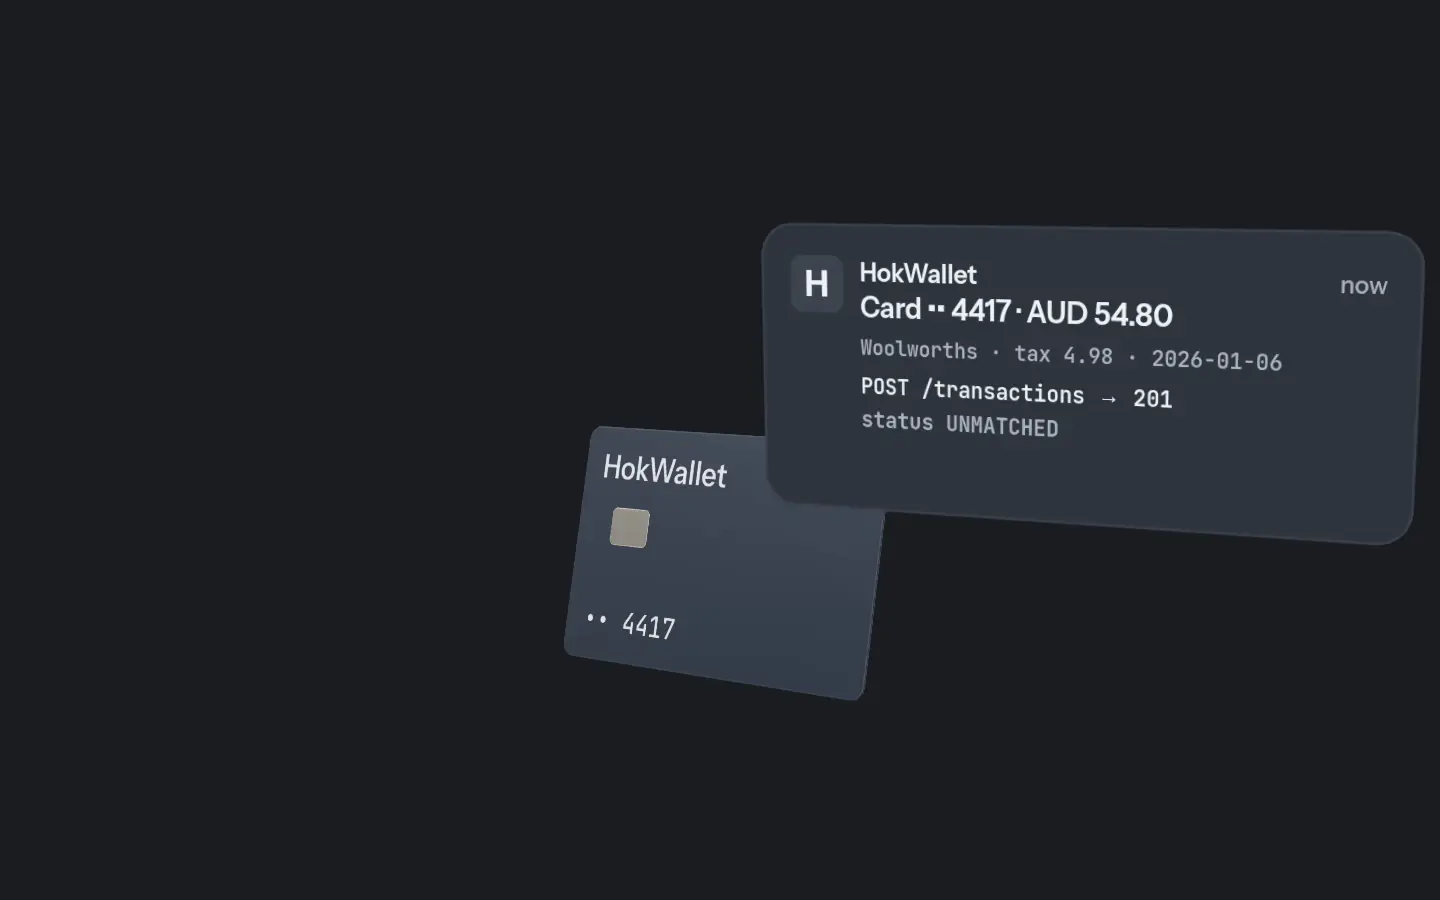
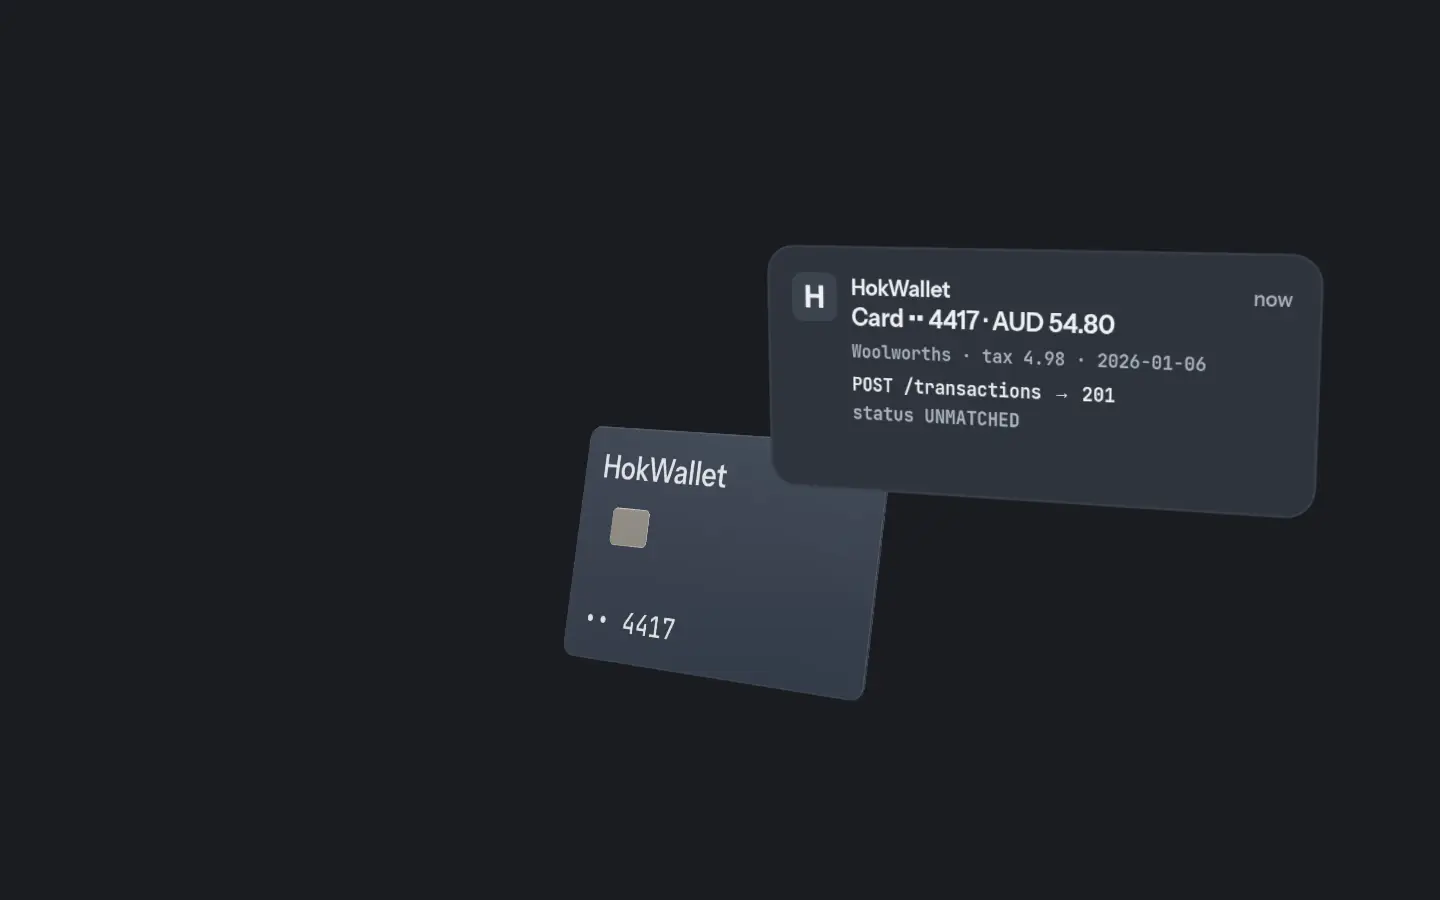
Apply the landing review: contrast, poses, fact dots, and cleanup.
Keep the rest poses arriving inside the sticky window, restore the fact
separators, leave merchant names on the mobile log, paint the overscroll
with the landing tokens, dispose every canvas texture, cancel the idle
load, and load Geist only on /demo.

Changed region(s): [[0.5312, 0.2489, 1.0, 0.6222]]

diff --git a/web/app/landing.css b/web/app/landing.css
@@ -23,7 +23,21 @@
   overflow-x: clip;
 }
 
+html:has(.landing),
 body:has(.landing) {
+  color-scheme: dark;
+  --bg: oklch(0.225 0.009 255);
+  --panel: oklch(0.255 0.01 255);
+  --raised: oklch(0.29 0.011 255);
+  --line: oklch(0.36 0.012 255);
+  --line2: oklch(0.31 0.011 255);
+  --fg: oklch(0.95 0.004 255);
+  --fg2: oklch(0.8 0.012 255);
+  --fg3: oklch(0.7 0.012 255);
+  --amber: oklch(0.82 0.12 78);
+  --amberink: oklch(0.24 0.035 70);
+  --mint: oklch(0.79 0.13 158);
+  --coral: oklch(0.74 0.15 25);
   background: var(--bg);
   color: var(--fg);
 }
@@ -56,6 +70,10 @@ body:has(.landing) {
 .word {
   color: var(--fg);
   font-weight: 500;
+}
+
+.word-short {
+  display: none;
 }
 
 .top nav {
@@ -181,6 +199,7 @@ body:has(.landing) {
   font-weight: 600;
   letter-spacing: -0.03em;
   line-height: 62px;
+  text-wrap: balance;
 }
 
 .landing h2 {
@@ -188,6 +207,7 @@ body:has(.landing) {
   font-weight: 600;
   letter-spacing: -0.025em;
   line-height: 48px;
+  text-wrap: balance;
 }
 
 .landing .lede {
@@ -209,7 +229,8 @@ body:has(.landing) {
 .landing .fact {
   display: flex;
   flex-wrap: wrap;
-  gap: 8px 18px;
+  align-items: baseline;
+  gap: 0.35em;
   margin-top: 22px;
   color: var(--fg);
   font-size: 14px;
@@ -254,9 +275,10 @@ body:has(.landing) {
 
 .log {
   display: grid;
-  gap: 18px;
+  gap: 0;
   margin-top: 28px;
   padding: 0;
+  border-top: 1px solid var(--line2);
   list-style: none;
   font-size: 14px;
   line-height: 20px;
@@ -267,6 +289,8 @@ body:has(.landing) {
   grid-template-columns: 6.4rem 9.6rem max-content;
   gap: 12px;
   align-items: baseline;
+  padding: 9px 0;
+  border-bottom: 1px solid var(--line2);
   white-space: nowrap;
 }
 
@@ -295,7 +319,7 @@ body:has(.landing) {
   margin-top: 28px;
 }
 
-.btn {
+.landing a.btn {
   display: inline-flex;
   align-items: center;
   justify-content: center;
@@ -310,14 +334,18 @@ body:has(.landing) {
   text-decoration: none;
 }
 
-.actions .link {
+.landing .actions .link {
   display: inline-flex;
   align-items: center;
   min-height: 44px;
   color: var(--fg2);
   font-size: 17px;
-  text-decoration: none;
+  text-decoration: underline;
   text-underline-offset: 4px;
+}
+
+.log + .reveal .actions {
+  margin-top: 32px;
 }
 
 .landing .footnote {
@@ -325,11 +353,11 @@ body:has(.landing) {
   z-index: 4;
   bottom: 18px;
   left: var(--gut);
-  max-width: min(1040px, calc(100vw - 2 * var(--gut)));
+  max-width: min(1180px, calc(100vw - 2 * var(--gut)));
   margin: 0;
   color: var(--fg3);
   font-size: 12px;
-  line-height: 16px;
+  line-height: 17px;
   pointer-events: none;
 }
 
@@ -412,7 +440,27 @@ body:has(.landing) {
 
   .top {
     height: 56px;
-    padding: 0 12px 0 20px;
+    padding: 0 8px 0 20px;
+  }
+
+  .word-full {
+    display: none;
+  }
+
+  .word-short {
+    display: inline;
+  }
+
+  .top nav {
+    gap: 0;
+    flex-shrink: 0;
+  }
+
+  .top a {
+    justify-content: center;
+    min-width: 44px;
+    min-height: 44px;
+    padding: 0 12px;
   }
 
   .landing main {
@@ -482,12 +530,8 @@ body:has(.landing) {
     justify-content: center;
   }
 
-  .log .item {
-    display: none;
-  }
-
   .log li {
-    grid-template-columns: auto 1fr;
+    grid-template-columns: auto auto minmax(0, 1fr);
     white-space: normal;
   }
 

diff --git a/web/components/landing/view.tsx b/web/components/landing/view.tsx
@@ -22,7 +22,10 @@ export function Landing({ fontClass }: { fontClass: string }) {
     <div className={`landing ${fontClass}`} data-landing="">
       <Scroller />
       <header className="top">
-        <span className="word">Hok Heng · Software Engineer</span>
+        <span className="word">
+          <span className="word-full">Hok Heng · Software Engineer</span>
+          <span className="word-short">Hok Heng</span>
+        </span>
         <nav aria-label="Site">
           <a href={REPO} target="_blank" rel="noopener noreferrer">
             GitHub
@@ -98,6 +101,9 @@ export function Landing({ fontClass }: { fontClass: string }) {
                 <span>
                   POST /transactions · <b>201</b>
                 </span>
+                <span className="dot" aria-hidden="true">
+                  ·
+                </span>
                 <span>UNMATCHED</span>
               </p>
               <p className="tag reveal" data-reveal="4">
@@ -127,8 +133,14 @@ export function Landing({ fontClass }: { fontClass: string }) {
                   <i aria-hidden="true" />
                   MATCHED
                 </span>
+                <span className="dot" aria-hidden="true">
+                  ·
+                </span>
                 <span>
                   <b>1.000</b> ≥ 0.850
+                </span>
+                <span className="dot" aria-hidden="true">
+                  ·
                 </span>
                 <span>no tie</span>
               </p>
@@ -158,8 +170,14 @@ export function Landing({ fontClass }: { fontClass: string }) {
                 <span className="ok">
                   <i aria-hidden="true" />1 × 200
                 </span>
+                <span className="dot" aria-hidden="true">
+                  ·
+                </span>
                 <span className="bad">
                   <i aria-hidden="true" />9 × 409
+                </span>
+                <span className="dot" aria-hidden="true">
+                  ·
                 </span>
                 <span className="quiet">Retry-After: 1 if the row is busy</span>
               </p>
@@ -187,7 +205,13 @@ export function Landing({ fontClass }: { fontClass: string }) {
                   <i aria-hidden="true" />
                   EXCEPTION
                 </span>
+                <span className="dot" aria-hidden="true">
+                  ·
+                </span>
                 <span>R7_DUPLICATE</span>
+                <span className="dot" aria-hidden="true">
+                  ·
+                </span>
                 <span>reason required</span>
               </p>
               <p className="tag reveal" data-reveal="4">

diff --git a/web/components/landing/scene.ts b/web/components/landing/scene.ts
@@ -141,11 +141,13 @@ export async function mountScene(canvas: HTMLCanvasElement): Promise<SceneHandle
     if (!ctx) throw new Error("2d");
     return [el, ctx] as const;
   };
+  const textures: CanvasTexture[] = [];
   const texture = (source: HTMLCanvasElement, flip = true) => {
     const map = new CanvasTexture(source);
     map.colorSpace = SRGBColorSpace;
     map.flipY = flip;
     map.anisotropy = aniso;
+    textures.push(map);
     return map;
   };
   const text = (ctx: CanvasRenderingContext2D, value: string, x: number, y: number, options: Draw = {}) => {
@@ -272,7 +274,9 @@ export async function mountScene(canvas: HTMLCanvasElement): Promise<SceneHandle
     text(ctx, "POST /transactions → 201", 120, 190, { f: mono, size: 24 });
     text(ctx, "status UNMATCHED", 120, 228, { f: mono, w: 600, size: 24, col: C.fg2 });
   }, { r: 36, bg: "#2e343d" });
-  note.position.set(0.05, 0.045, 0.03);
+  const noteX = 0.042;
+  note.scale.setScalar(0.85);
+  note.position.set(noteX, 0.045, 0.03);
   note.rotation.y = deg(-10);
 
   const header = panel(0.26, 0.02, (ctx) => {
@@ -402,7 +406,7 @@ export async function mountScene(canvas: HTMLCanvasElement): Promise<SceneHandle
       group.visible = fade > 0.02;
       if (beat === 1) {
         const slide = smoother(clamp(enter / 0.7, 0, 1));
-        note.position.x = 0.05 + 0.024 * (1 - slide);
+        note.position.x = noteX + 0.024 * (1 - slide);
         fadeObject(note, fade * slide);
       } else if (beat === 2) {
         const dim = smoother(clamp(enter / 0.28, 0, 1));
@@ -479,13 +483,11 @@ export async function mountScene(canvas: HTMLCanvasElement): Promise<SceneHandle
     scene.traverse((object) => {
       if (!isMesh(object)) return;
       object.geometry.dispose();
-      materials(object).forEach((material) => {
-        const map = (material as MeshBasicMaterial).map;
-        if (map) map.dispose();
-        material.dispose();
-      });
+      materials(object).forEach((material) => material.dispose());
     });
+    textures.forEach((map) => map.dispose());
     renderer.dispose();
+    renderer.getContext().getExtension("WEBGL_lose_context")?.loseContext();
     room.removeFromParent();
   };
 

diff --git a/web/components/landing/motion.ts b/web/components/landing/motion.ts
@@ -20,12 +20,19 @@ const POSES: Pose[] = [
   { px: 0, py: 0, pz: 0, rx: 62, ry: -28, rz: 14, scale: 1, tx: 0, ty: 0, tz: 0, dist: 0.235, az: 18, el: 14, sx: 0.2 },
   { px: -0.03, py: 0, pz: 0, rx: 74, ry: -16, rz: 8, scale: 1, tx: 0.025, ty: 0.025, tz: 0, dist: 0.36, az: 8, el: 10, sx: 0.17 },
   { px: 0.17, py: 0.2, pz: 0.064, rx: 90, ry: -12, rz: 0, scale: 1, tx: 0.085, ty: 0.13, tz: 0.06, dist: 0.7, az: 0, el: 2, sx: 0.22 },
-  { px: -0.045, py: -0.024, pz: 0.02, rx: 90, ry: -4, rz: -9, scale: 0.62, tx: 0, ty: 0.01, tz: 0, dist: 0.64, az: -12, el: 6, sx: 0.22 },
+  { px: -0.126, py: -0.024, pz: 0.026, rx: 90, ry: -4, rz: -9, scale: 0.806, tx: 0, ty: 0.01, tz: 0, dist: 0.64, az: -12, el: 6, sx: 0.22 },
   { px: -0.05, py: 0.03, pz: 0.03, rx: 90, ry: 34, rz: 6, scale: 0.8, tx: 0.03, ty: 0.03, tz: 0, dist: 0.52, az: 6, el: 6, sx: 0.2 },
   { px: -0.03, py: 0.002, pz: 0.06, rx: 90, ry: 24, rz: -6, scale: 1, tx: 0.03, ty: 0.05, tz: 0, dist: 0.55, az: 10, el: 8, sx: 0.2 },
 ];
 
-/** s where each rest pose has fully arrived, then holds. */
+/**
+ * s where each rest pose has fully arrived, then holds.
+ * Section 2 lists 2.55 and 3.5 for beats 3 and 4. Those sits are at or past
+ * the end of the sticky window: a 200vh section only pins its 100vh copy while
+ * local progress is under 0.5, so s = k + 0.5 is the last frame where the copy
+ * still fills the viewport. Arriving at 2.4 and 3.4 settles the pose while that
+ * copy is still stuck, which is the storyboard frame.
+ */
 const ARRIVE = [0, 1.3, 2.4, 3.4, 4.3, 5];
 
 export type Sample = {

diff --git a/web/components/landing/scroller.tsx b/web/components/landing/scroller.tsx
@@ -19,6 +19,8 @@ export function Scroller() {
     let disposed = false;
     let starting = false;
     let raf = 0;
+    let idleId = 0;
+    let timeoutId = 0;
     let running = false;
     let s = 0;
     let sd = 0;
@@ -135,9 +137,22 @@ export function Scroller() {
     };
 
     const schedule = () => {
+      if (idleId) window.cancelIdleCallback(idleId);
+      window.clearTimeout(timeoutId);
+      idleId = 0;
+      timeoutId = 0;
       const idle = window.requestIdleCallback;
-      if (idle) idle(() => begin(), { timeout: 1500 });
-      else window.setTimeout(begin, 1);
+      if (idle) {
+        idleId = idle(() => {
+          idleId = 0;
+          begin();
+        }, { timeout: 1500 });
+      } else {
+        timeoutId = window.setTimeout(() => {
+          timeoutId = 0;
+          begin();
+        }, 1);
+      }
     };
 
     const onResize = () => {
@@ -171,6 +186,8 @@ export function Scroller() {
     return () => {
       disposed = true;
       window.cancelAnimationFrame(raf);
+      if (idleId) window.cancelIdleCallback(idleId);
+      window.clearTimeout(timeoutId);
       window.removeEventListener("scroll", kick);
       window.removeEventListener("resize", onResize);
       window.removeEventListener("load", schedule);

diff --git a/web/app/layout.tsx b/web/app/layout.tsx
@@ -1,16 +1,5 @@
 import type { Metadata } from "next";
-import { Geist, Geist_Mono } from "next/font/google";
 import "./globals.css";
-
-const geistSans = Geist({
-  variable: "--font-geist-sans",
-  subsets: ["latin"],
-});
-
-const geistMono = Geist_Mono({
-  variable: "--font-geist-mono",
-  subsets: ["latin"],
-});
 
 export const metadata: Metadata = {
   metadataBase: new URL("https://spend.hokheng.com"),
@@ -23,7 +12,7 @@ export const metadata: Metadata = {
 
 export default function RootLayout({ children }: Readonly<{ children: React.ReactNode }>) {
   return (
-    <html lang="en" className={`${geistSans.variable} ${geistMono.variable} h-full antialiased`}>
+    <html lang="en" className="h-full antialiased">
       <body className="min-h-full">{children}</body>
     </html>
   );

diff --git a/web/app/demo/layout.tsx b/web/app/demo/layout.tsx
@@ -1,0 +1,16 @@
+import { Geist, Geist_Mono } from "next/font/google";
+import type { ReactNode } from "react";
+
+const geistSans = Geist({
+  variable: "--font-geist-sans",
+  subsets: ["latin"],
+});
+
+const geistMono = Geist_Mono({
+  variable: "--font-geist-mono",
+  subsets: ["latin"],
+});
+
+export default function DemoLayout({ children }: { children: ReactNode }) {
+  return <div className={`${geistSans.variable} ${geistMono.variable} ${geistSans.className}`}>{children}</div>;
+}
